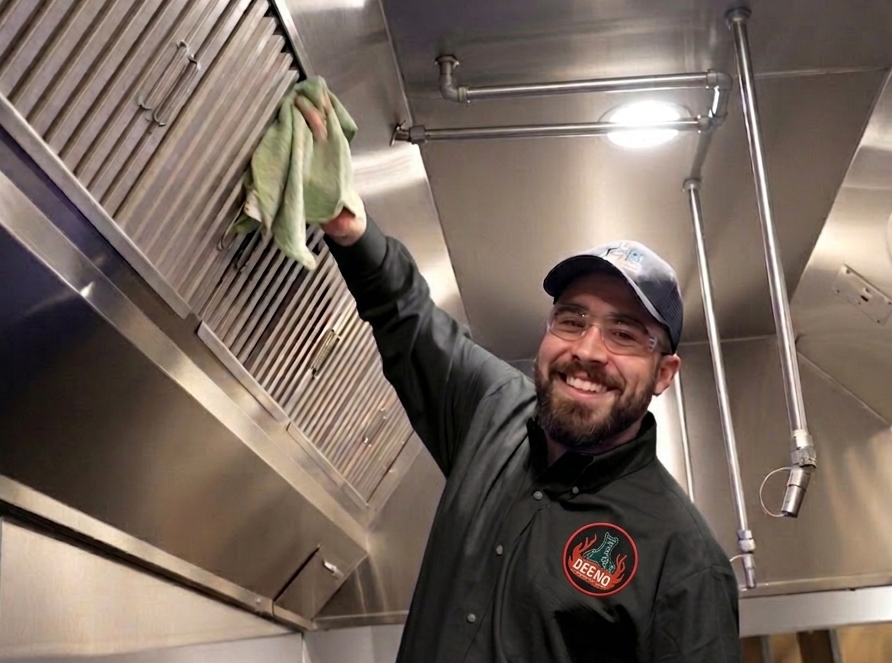
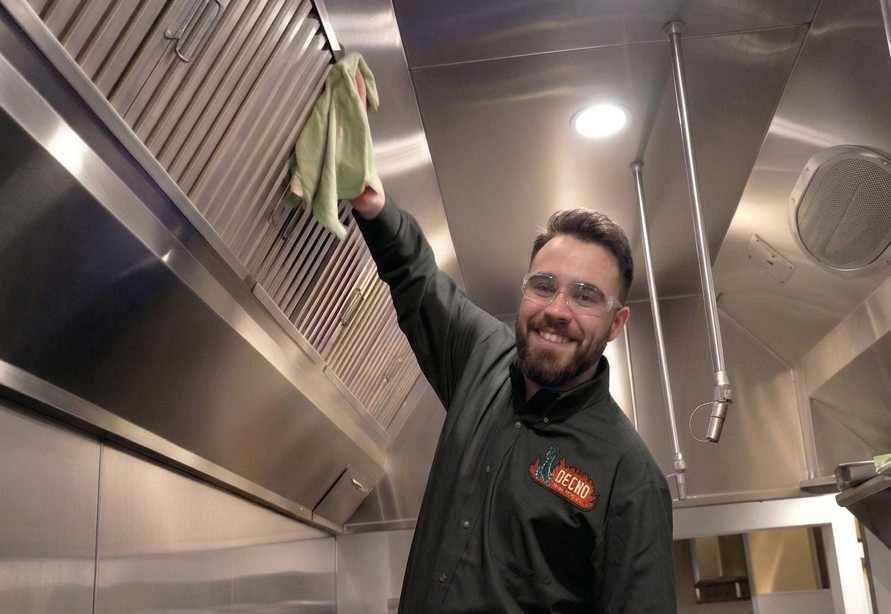
New hero photo, hard 50/50 split (no gradient)

diff --git a/index.html b/index.html
@@ -204,9 +204,7 @@
     position: absolute;
     top: 0; right: 0; bottom: 0;
     left: 50%;
-    background-image:
-      linear-gradient(90deg, var(--black) 0%, rgba(26,26,26,0.75) 12%, rgba(26,26,26,0.25) 32%, transparent 55%),
-      url('images/hero-cleaning.png');
+    background-image: url('images/hero-cleaning.png?v=2');
     background-size: cover;
     background-position: center;
   }
@@ -279,7 +277,7 @@
       left: 0;
       background-image:
         linear-gradient(180deg, rgba(26,26,26,0.88) 0%, rgba(26,26,26,0.7) 60%, rgba(26,26,26,0.85) 100%),
-        url('images/hero-cleaning.png');
+        url('images/hero-cleaning.png?v=2');
     }
   }
   @media (max-width: 760px) {
